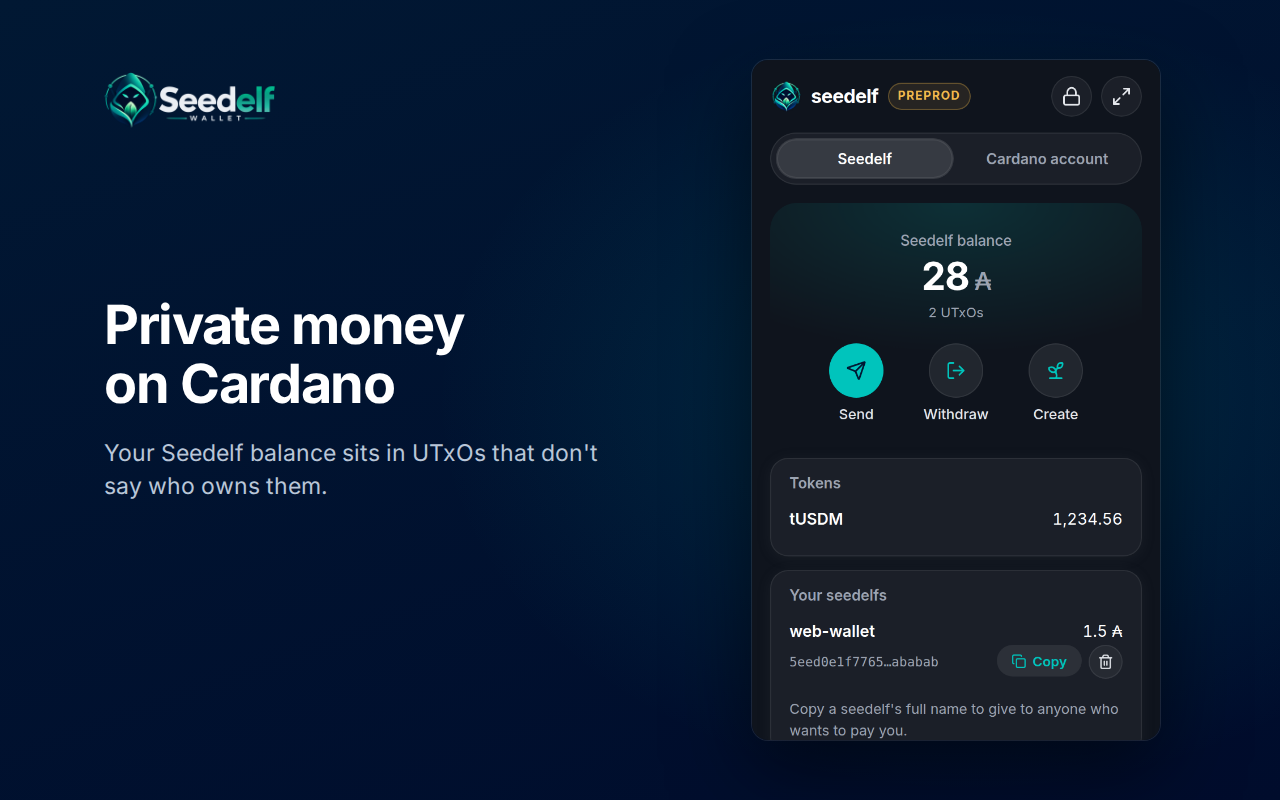
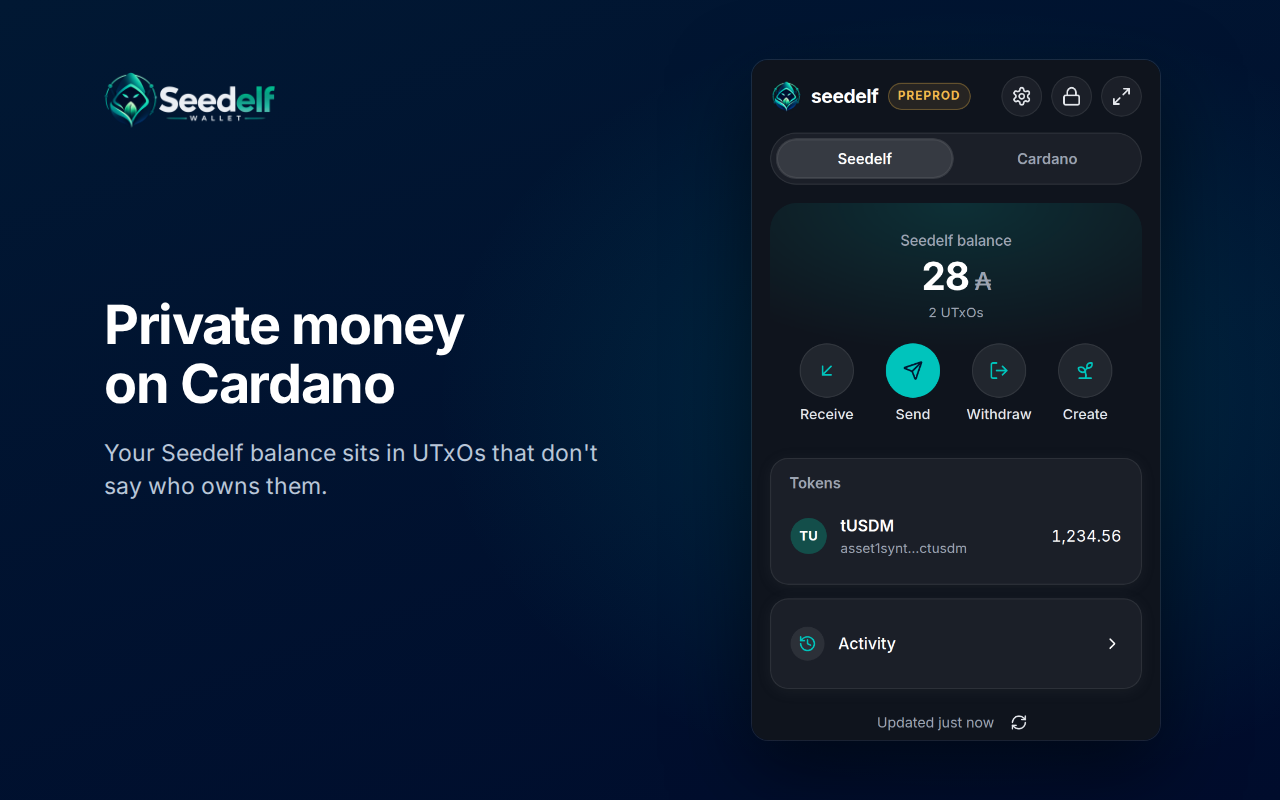
tick roadmap chunk 12, plan chunk 13: staking and voting delegation
Chunk 12's 20 items are in its plan; the store images are regenerated
for the new Home. The user settled the wallet's direction: a full Cardano
wallet with private payments built in. Chunk 13's plan records the
decisions (one pool, delegation-only governance, rewards spent
automatically with a Settings switch) and what's needed: certificates
patched into Pallas's transactions, and the Koios requests per screen.

diff --git a/seedelf-platform/seedelf-web-wallet/docs/plans/chunk-13-staking.md b/seedelf-platform/seedelf-web-wallet/docs/plans/chunk-13-staking.md
@@ -1,0 +1,86 @@
+# Chunk 13 plan: staking and voting delegation
+
+**Why:** on 2026-09-24 the user settled what the wallet is: **a Cardano wallet with private payments built in**, more like Lace, not a stealth wallet you keep beside another one. Users shouldn't need a second wallet for the Cardano side. Chunk 12 added Send from the Cardano account; this chunk adds staking and voting delegation. Branch `web-wallet/staking`, from `seedelf-web-wallet` once chunk 12 is merged. It's big, so it may split into 13a (the core and staking) and 13b (voting, spending rewards, the new positioning), one PR each.
+
+## Start here
+
+1. `git fetch origin && git checkout -b web-wallet/staking origin/seedelf-web-wallet`
+2. Read this plan, then chunk 12's handoff note in [roadmap.md](../roadmap.md#handoff-notes).
+3. Build and test (from `extension/`): `npm run build && npm test && npm run e2e`.
+4. Record the fixtures below from preprod before writing the worker.
+
+## Decided with the user
+
+| Question | Decision |
+|---|---|
+| Stealth wallet beside another, or a full wallet? | **A full Cardano wallet with Seedelf built in.** The README, privacy.md and the store listing say it (the user resubmits the listing). |
+| Several pools per account? | **One pool per account.** Lace 2.4 dropped multi-pool too. |
+| Governance | **Delegation only:** Always abstain, Always no confidence, or a DRep. No voting on proposals, no registering as a DRep. |
+| Rewards | **Spent automatically when the account spends** (a withdrawal rides along in a send, move-in or account-paid mint), with a **Settings switch** to turn that off and withdraw by hand from the Staking page. |
+| Rewards on Home | **`account_info` joins the balance reading** (one more request), so the Cardano tab always shows the pool and the rewards. |
+| Choosing a DRep | **The two pinned choices, or paste a DRep ID** (its name from its metadata). A browsable list is a follow-up, below. |
+
+## What Lace does, and what we keep
+
+From `_reference/lace` (2.4.0): a staking page per account with the pool's stats and warnings (retiring, saturated, pledge not met, no DRep); a pool browser with search (ticker, name, ID) and sorts (saturation, cost, margin, pledge, stake, blocks); pool details → review (the key deposit, the fee) → sign. The first delegation is two certificates (registration, then pool delegation); a vote delegation can ride in the same transaction. De-registering withdraws all rewards and returns the deposit in one transaction, and is disabled while rewards are locked for lack of a DRep. Governance has its own tab: Abstain and No Confidence pinned at the top, then DReps by name. Lace warns "Rewards locked. Delegate your voting rights to a DRep…".
+
+**Left out:** return estimates (ROS) and rankings, reward charts, delegation history, promoted pools and DReps, fiat, hardware wallets.
+
+## Scope
+
+### 1. Core (`seedelf-core/src/build.rs`)
+
+- **Pallas can't build certificates or withdrawals.** `pallas-txbuilder` 0.33 has `// pub certificates: TODO` and `// pub withdrawals: TODO`, and `build_conway_raw` writes `None` for both; 1.4.0 (the newest) is the same, so no bump helps.
+- **The way round:** stage and build as now, then decode the body (`conway::Tx`), set `certificates` and `withdrawals` (pallas-primitives has every Conway certificate: `Reg`, `UnReg`, `StakeDelegation`, `VoteDeleg`, `StakeVoteDeleg`, `StakeRegDeleg`, `VoteRegDeleg`, `StakeVoteRegDeleg`; `DRep::{Key, Script, Abstain, NoConfidence}`), and re-encode. The body hash changes, so signing comes after, on `tx_id()` of the patched bytes with `add_witnesses` (never `BuiltTransaction::sign`, whose hash is stale). `settle_fee` must price the patched body plus the stake key's witness.
+- **The account payment gains** an optional withdrawal (the reward address and the whole balance: the ledger takes nothing less) and certificates, with the deposit (`key_deposit` from `epoch_params`, added to `ProtocolParameters`) paid from the inputs, and a refund (the deposit `account_info` reports) added back.
+- **Builders:** delegate (registration when unregistered, then pool delegation, and a vote delegation when asked), change pool, delegate the vote, withdraw rewards, stop staking (withdraw everything, unregister, refund). Each with core tests like `build_test.rs`: value conserved counting deposit, refund and withdrawal; fee covers the patched, signed size.
+
+### 2. WebAssembly
+
+- Build and sign each one, with the payment keys and the **stake key** (`Role::Staking`, index 0) inside WebAssembly. The staking key never reaches JavaScript.
+- A send, move-in or account mint takes an optional `withdrawal` (lovelace) when rewards are to be spent: checked non-negative, and signed with the stake key too.
+
+### 3. Worker
+
+- `Koios`: `accountInfo` (status, pool, DRep, rewards available, deposit), `poolList` (live pools only: `pool_status=eq.registered`, the columns the browser shows), `poolInfo`, `drepInfo`, `drepMetadata`.
+- **Rewards in the balance:** `Balances.cardano` gains `rewards`, `pool`, `drep` and `registered`. With spending rewards on, the spendable figure includes them.
+- **Spending rewards:** a build reads `account_info` fresh (the withdrawal must equal the balance), and only when a DRep delegation exists (Conway refuses withdrawals without one; the UI says so and offers to delegate the vote). An epoch boundary between Review and Send changes the balance: the submit fails with a clear "review it again".
+- **The pool list is public:** kept in `chrome.storage.local` for a day, not per session.
+- A `StakingService` for building and submitting, like `SendService` (signed at review; Send only submits; pending kinds `stake`, `vote`, `withdraw-rewards`, `unstake`).
+- A setting, `spendRewards` (default on), in `chrome.storage.local`.
+
+### 4. UI
+
+- **Cardano tab:** a Staking row under the balance: "Staking with LOGIC · 57.47 ₳ rewards", or "Not staking · Stake", and the rewards-locked warning when there's no DRep.
+- **Staking page:** the pool (ticker, name, saturation, margin, cost, pledge; the warnings), rewards with **Withdraw** (always there; the only way when the Settings switch is off), **Change pool**, **Stop staking** (disabled while rewards are locked), and **Voting power**: the current choice and **Change**.
+- **Pool browser:** a search (ticker, name, pool ID) and sorts (saturation, margin, cost, pledge, live stake); details; review (deposit, fee); Send.
+- **Voting:** Always abstain, Always no confidence, or a DRep by ID (name, status, voting power from its metadata and `drep_info`); review; Send.
+- **Settings:** "Use staking rewards when spending" (on by default).
+- **Privacy notes:** staking and voting are public and name the account; Seedelf money can't be staked (no staking part, by design), so it earns nothing while it's in Seedelf.
+
+### 5. Koios requests
+
+| When | Requests |
+|---|---|
+| A balance reading | 4 (was 3): `account_info` joins, alongside |
+| Opening Staking | 1: `pool_info` for the current pool |
+| Browsing pools | 1 on preprod (559 live pools), 3 on mainnet (2,891), then none for a day |
+| A pool's details | 1: `pool_info` |
+| A DRep by ID | 2: `drep_info` and `drep_metadata` |
+| Any staking build | 4: `account_addresses`, `credential_utxos`, `account_info`, `epoch_params` |
+| A send, move-in or mint spending rewards | 1 more: `account_info` |
+
+### 6. Tests and fixtures
+
+- **Record from preprod:** the public 12-word phrase's account is registered, delegated to LOGIC (`pool1rccstu3l9ty3k0a5cd06fl3szsss9r34dcg5j38fqgq9kvng0tg`), set to always abstain, and had about 57.47 tADA of rewards on 2026-09-24. Record `account_info`, `pool_list` (preprod), `pool_info` for LOGIC and one other, a DRep's `drep_info` and `drep_metadata`.
+- Core, WebAssembly (native and JS), worker and e2e tests as for every flow, asserting the exact Koios requests per screen.
+- A live preprod run (the user approves live runs each time): delegate, vote, withdraw, change pool, stop staking.
+
+### 7. Docs
+
+README, privacy.md and flows.md (a Staking section); architecture.md (certificates, the requests); the store listing ("A Cardano wallet with private payments built in"), for the user to resubmit.
+
+## Follow-ups, not this chunk
+
+- **A browsable DRep list with names.** `drep_list` is 2 requests on mainnet (1,050 registered), but names come from `drep_metadata`, and Koios's public tier refuses request bodies over 5,120 bytes: about 80 IDs a call, so 13 calls and about 4 MB a day. Better: ship a name list with each release, as the token list does (`npm run tokens`), and read live status only for the DRep picked.
+- Rewards history, and the Cardano Activity's certificates and withdrawals (`tx_info` with `_certs` and `_withdrawals`).

diff --git a/seedelf-platform/seedelf-web-wallet/docs/roadmap.md b/seedelf-platform/seedelf-web-wallet/docs/roadmap.md
@@ -28,6 +28,8 @@ The wallet is built in **chunks**, each about one working session.
 | 11a | Style and flow pass | ✅ | The whole UI, much more like Lace's dark mode (`packages/lib/ui-toolkit/src/design-tokens/theme/dark.ts`): its look, not its brand. Dark only, Inter, Lucide icons, and Home as a Seedelf / Cardano account switch with round actions. **Plan: [plans/chunk-11-polish.md](plans/chunk-11-polish.md).** |
 | 11b | Size and live runs | ✅ | A smaller WebAssembly module: a size-tuned cargo profile (`wasm-opt` measured and left out). Live preprod runs of every flow from the built extension. The loose ends from chunks 8b–10. Same plan. |
 | 11c | Testers | ✅ | The unlisted, preprod-only Chrome Web Store listing, ready for the user to submit: `npm run package` (the store build, third-party notices, a reproducible zip), the listing text and privacy policy in [store/](store/README.md), the images from `npm run store:images`, and a release checklist. Same plan. |
+| 12 | Style and flow | ✅ | The user tested the built wallet and sent findings; 20 items, each decided with the user. Among them: a loading splash, a Tokens screen and a bundled token list, a token picker with any amount of each, Settings, Activity, Contacts, an incremental contract scan, Send from the Cardano account, the minimum ADA worked out, Receive on the Seedelf tab, and spending everything under the account's payment keys. **Plan: [plans/chunk-12-style-flow.md](plans/chunk-12-style-flow.md).** |
+| 13 | Staking and voting | ⬜ | The wallet becomes a full Cardano wallet with Seedelf built in: a Staking page (one pool, rewards spent automatically or by hand), and voting delegation (Always abstain, No confidence, or a DRep). Certificates patched into Pallas's transactions. **Plan: [plans/chunk-13-staking.md](plans/chunk-13-staking.md).** |
 
 ## After v1
 
@@ -38,6 +40,16 @@ The wallet is built in **chunks**, each about one working session.
 ## Handoff notes
 
 Newest first. Keep each entry short: what landed, what's next, and anything surprising.
+
+- **2026-09-24: chunk 12 done** (`web-wallet/style-flow`). Plan: [plans/chunk-12-style-flow.md](plans/chunk-12-style-flow.md).
+  - **What landed:** the user's 20 findings, each with its decision in the plan's list. The store images are regenerated (Home changed); the listing text isn't, until chunk 13's new positioning.
+  - **Decided for what's next:** the wallet is a full Cardano wallet with private payments built in, not a sidecar. Chunk 13 adds staking and voting delegation; the decisions are in [plans/chunk-13-staking.md](plans/chunk-13-staking.md).
+  - **Surprises:**
+    - `pallas-txbuilder` (0.33, and 1.4.0 too) can't build certificates or withdrawals; chunk 13 patches them into the built body.
+    - Koios's public tier refuses request bodies over 5,120 bytes: `credential_utxos` now asks about 75 keys a request.
+    - The account was read by stake key and kept only its own base addresses, so an enterprise address, or our key with someone else's stake key, went unseen. It's read by payment key now (item 20).
+    - The minimum ADA stays a hard rule in `seedelf-core`'s builders, so the CLI still refuses less; the web wallet raises a short amount in WebAssembly and says so on the review.
+  - **Next:** merge this PR, then chunk 13 from its plan's *Start here*.
 
 - **2026-09-24: chunk 11c done** (`web-wallet/store`). Plan: [plans/chunk-11-polish.md](plans/chunk-11-polish.md).
   - **Decided with the user:**

diff --git a/seedelf-platform/seedelf-web-wallet/README.md b/seedelf-platform/seedelf-web-wallet/README.md
@@ -34,7 +34,9 @@ Money comes in, moves privately, and goes out. It isn't meant to sit here.
 2. Use a dApp with that account.
 3. Whatever comes back is swept into a seedelf automatically.
 
-**Not planned:** staking, governance, swaps, hardware wallets, other chains, mobile. We add features only if there's demand.
+**Next: staking and voting delegation** (chunk 13). The wallet becomes a full Cardano wallet with private payments built in: stake the Cardano account with one pool, spend its rewards, and delegate its vote (Always abstain, No confidence, or a DRep). See [plans/chunk-13-staking.md](docs/plans/chunk-13-staking.md).
+
+**Not planned:** voting on proposals or registering as a DRep, swaps, hardware wallets, other chains, mobile. We add features only if there's demand.
 
 ## Relationship to the CLI
 
